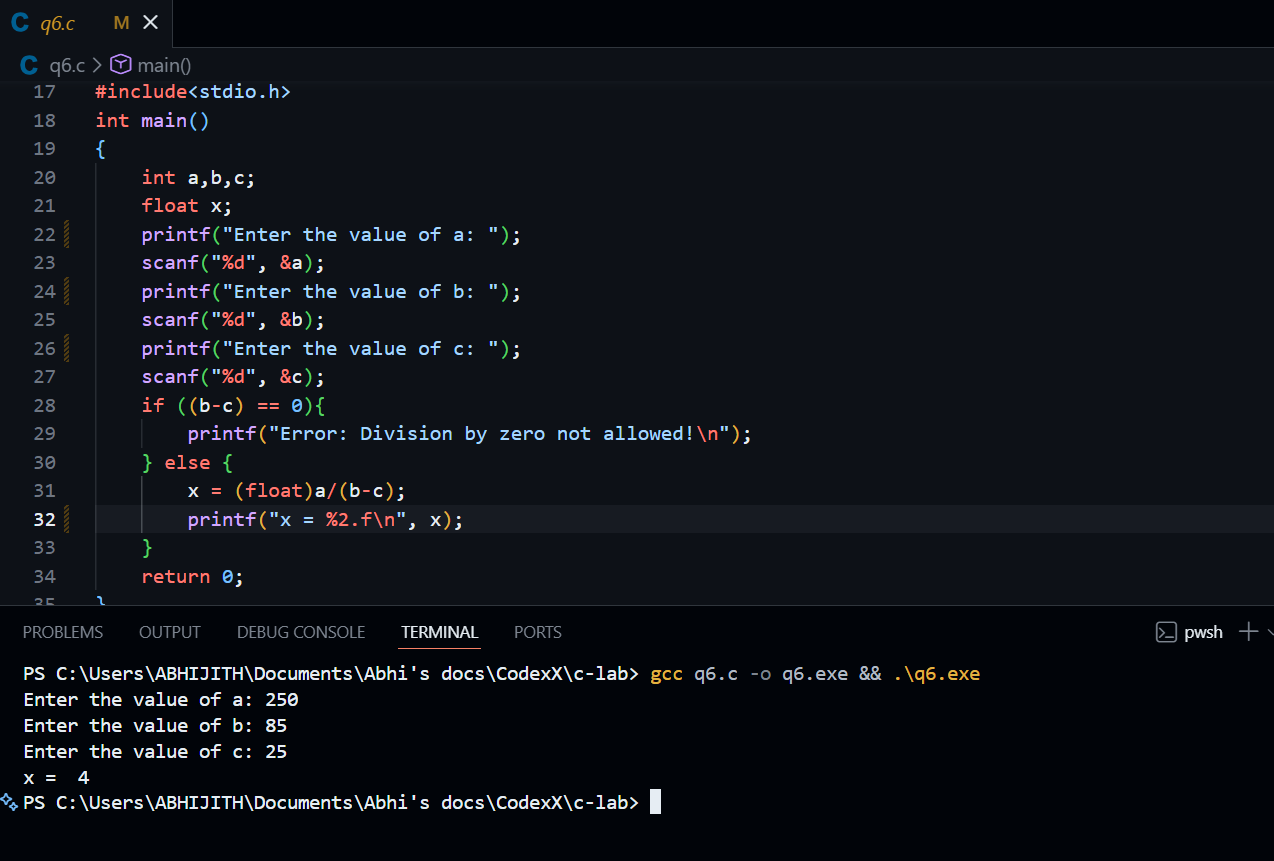
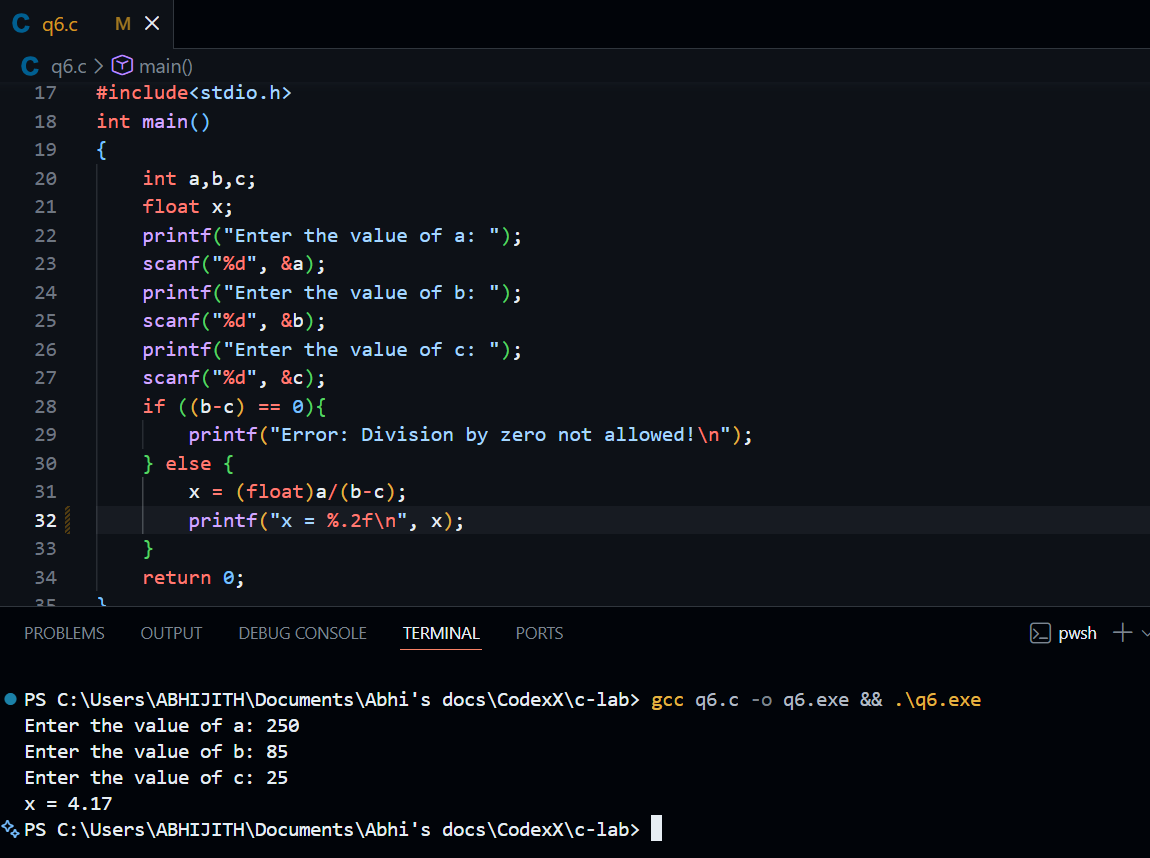
lab work

diff --git a/q6.c b/q6.c
@@ -29,7 +29,7 @@ int main()
         printf("Error: Division by zero not allowed!\n");
     } else {
         x = (float)a/(b-c);
-        printf("x = %2.f\n", x);
+        printf("x = %.2f\n", x);
     }
     return 0;
 }
